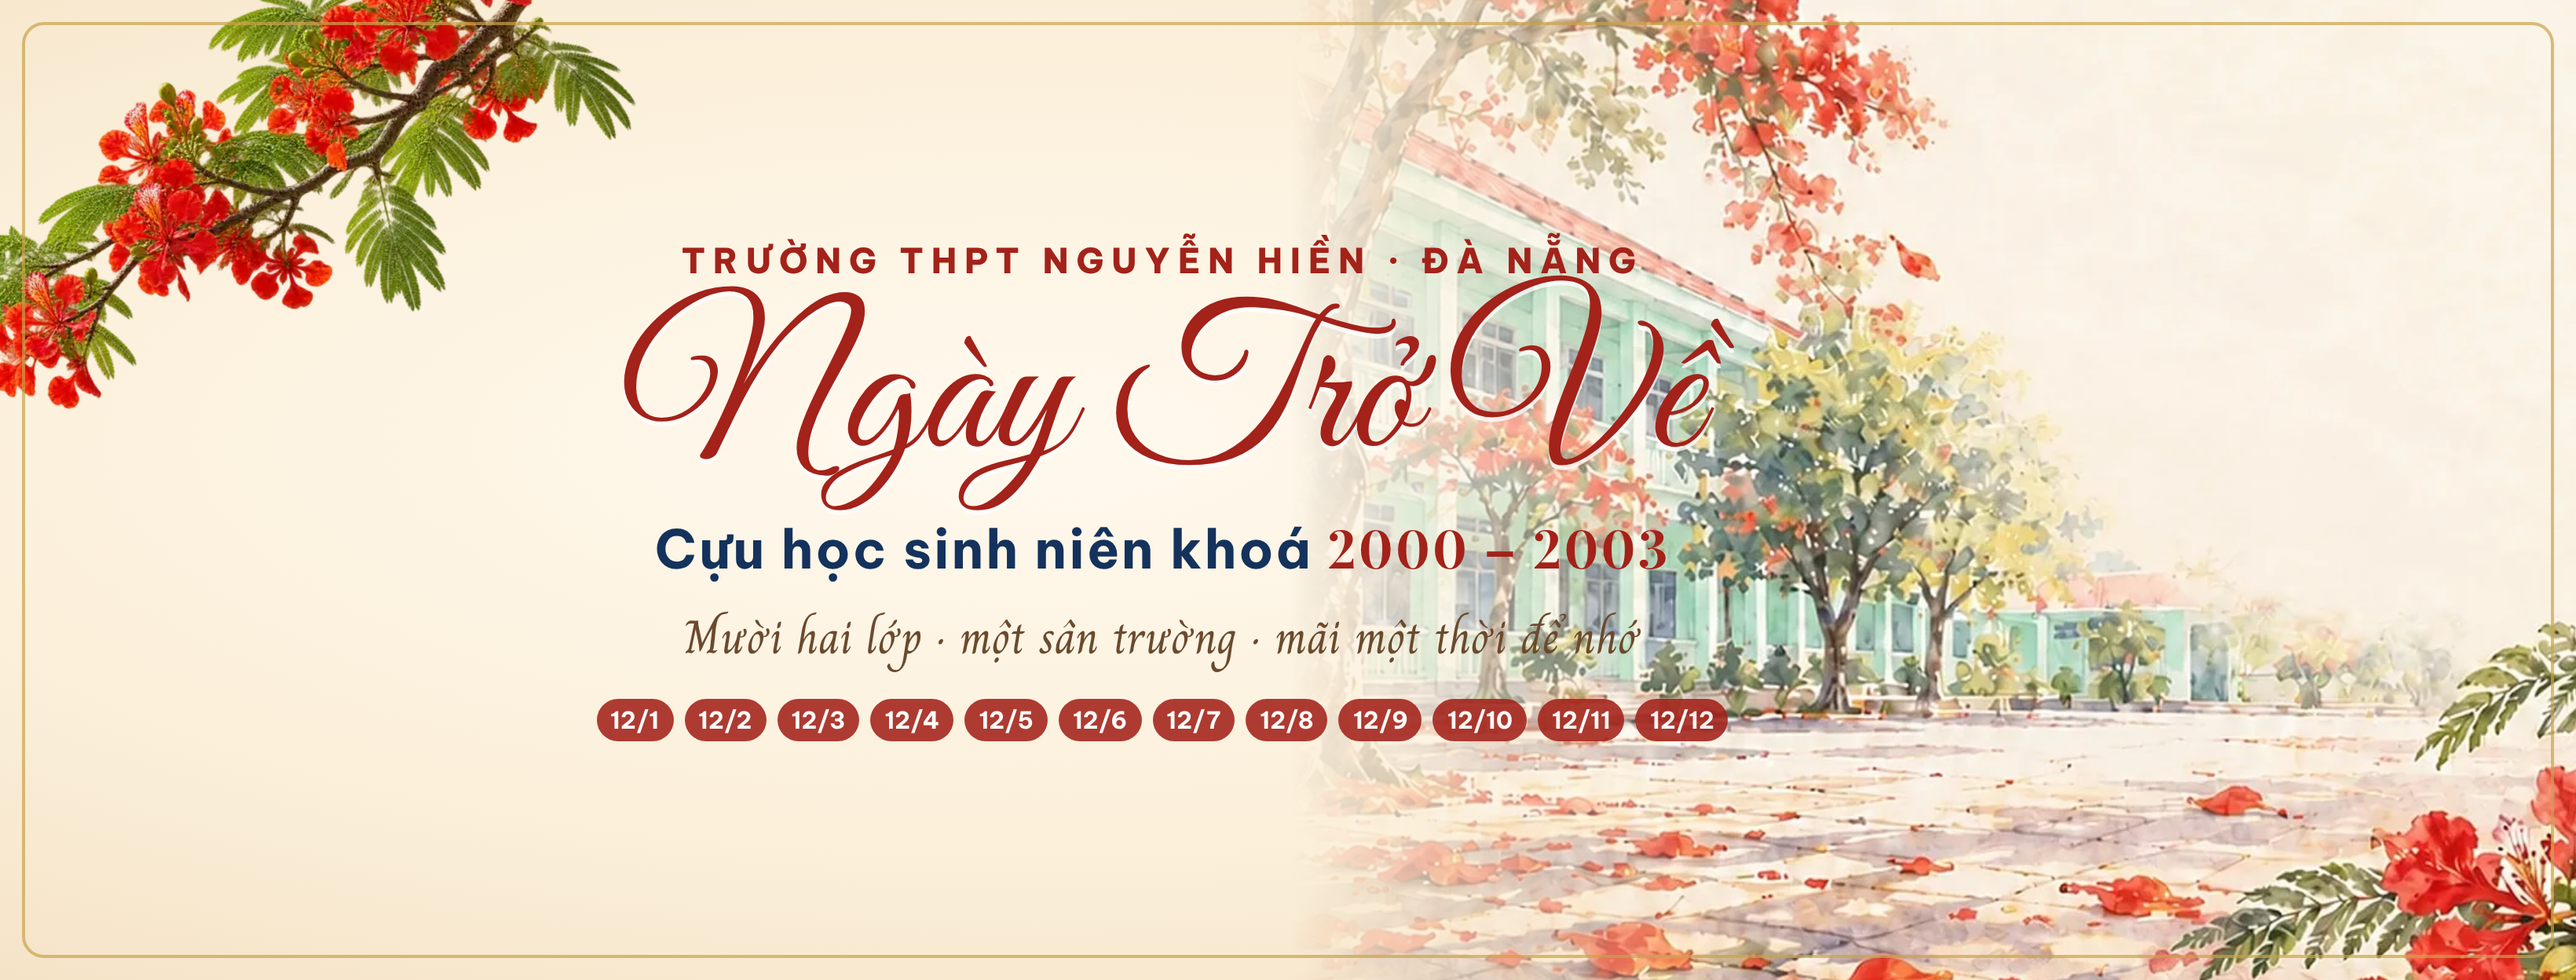
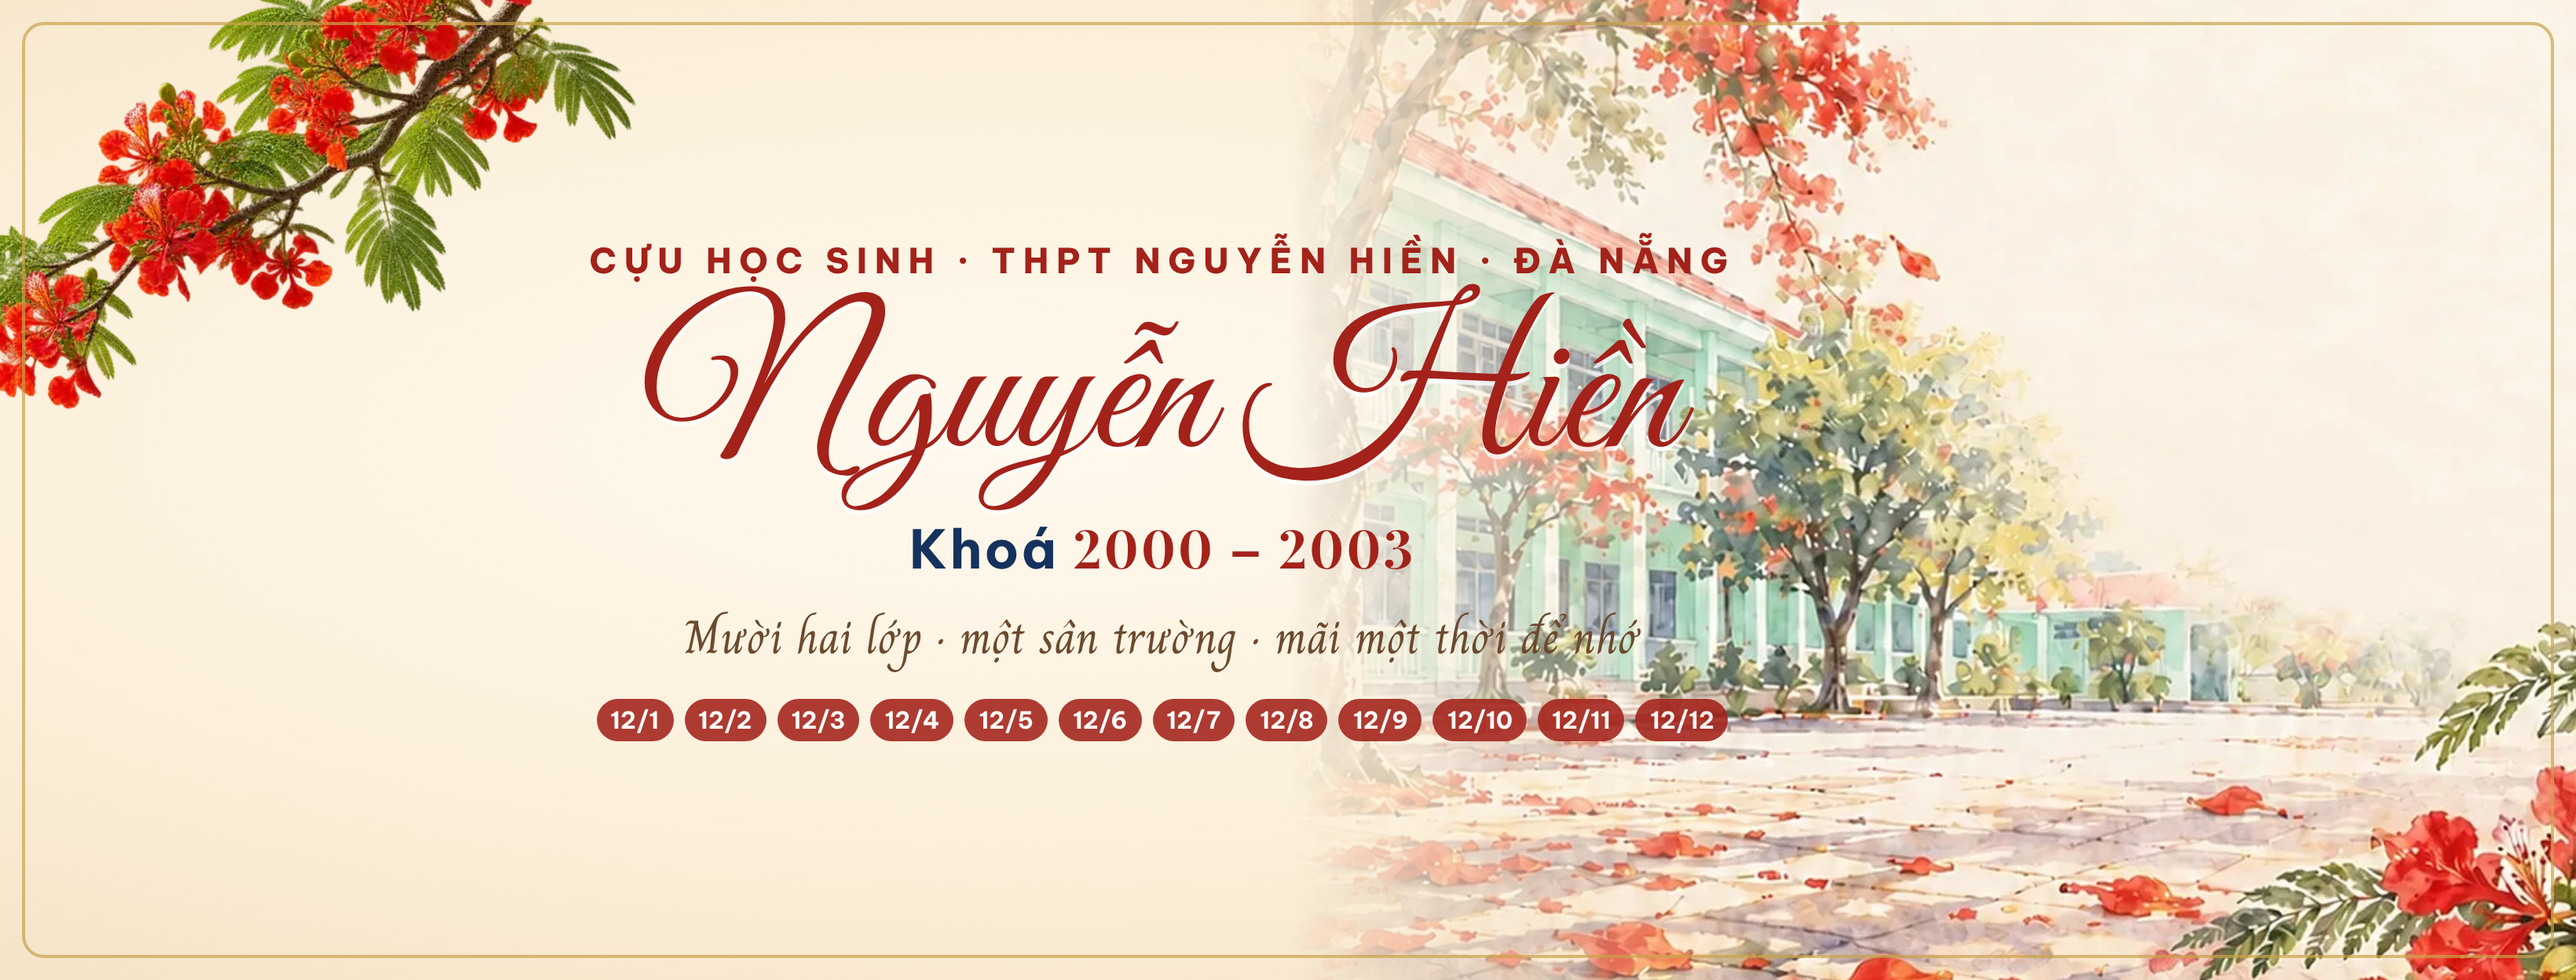
Fanpage: đổi theo tên đã chọn 'Cựu học sinh Nguyễn Hiền Đà Nẵng · Khoá 2000 – 2003' (@cuuhsnguyenhien0003)
Claude-Session: https://claude.ai/code/session_01Y1ZWh7bFy81zQtocY5fDHA

Changed region(s): [[0.2177, 0.25, 0.6841, 0.5938]]

diff --git a/thiet-ke/fanpage/fanpage.html b/thiet-ke/fanpage/fanpage.html
@@ -31,8 +31,8 @@ h1{font:400 128px/1.05 'Great Vibes',cursive;color:#A3221A;margin:8px 0 2px;text
 const m=new URLSearchParams(location.search).get('m')||'bia';document.body.className=m;
 const C='../tho-mot-thoi-de-nho/canh-phuong.webp',L='../../assets/logo-nguyen-hien.png';
 document.body.innerHTML+= m==='bia'?`<div class="tranh"></div><img class="canh c1" src="${C}"><div class="vien"></div>
-<div class="nd"><div class="ey">TRƯỜNG THPT NGUYỄN HIỀN · ĐÀ NẴNG</div><h1>Ngày Trở Về</h1>
-<div class="nk">Cựu học sinh niên khoá <b>2000 – 2003</b></div><div class="cau">Mười hai lớp · một sân trường · mãi một thời để nhớ</div>
+<div class="nd"><div class="ey">CỰU HỌC SINH · THPT NGUYỄN HIỀN · ĐÀ NẴNG</div><h1>Nguyễn Hiền</h1>
+<div class="nk">Khoá <b>2000 – 2003</b></div><div class="cau">Mười hai lớp · một sân trường · mãi một thời để nhớ</div>
 <div class="lop">${Array.from({length:12},(_,i)=>`<i>12/${i+1}</i>`).join('')}</div></div>`
-:`<img class="canh c1" src="${C}"><img class="canh c2" src="${C}"><div class="vong"></div><img class="logo" src="${L}"><div class="ten">NGUYỄN HIỀN</div><div class="so">2000 – 2003</div><div class="ntv">Ngày Trở Về</div>`;
+:`<img class="canh c1" src="${C}"><img class="canh c2" src="${C}"><div class="vong"></div><img class="logo" src="${L}"><div class="ten">NGUYỄN HIỀN</div><div class="so">2000 – 2003</div><div class="ntv">Cựu học sinh</div>`;
 </script></body></html>

diff --git a/thiet-ke/fanpage/huong-dan-fanpage.md b/thiet-ke/fanpage/huong-dan-fanpage.md
@@ -1,11 +1,11 @@
-# Fanpage "Nguyễn Hiền 2000 – 2003 · Ngày Trở Về"
+# Fanpage "Cựu học sinh Nguyễn Hiền Đà Nẵng · Khoá 2000 – 2003"
 
 ## 1. Thông tin tạo trang
 
 | Mục | Điền |
 |---|---|
-| **Tên trang** | Nguyễn Hiền 2000 – 2003 · Ngày Trở Về |
-| **Tên người dùng (@)** | `nguyenhien0003` (dự phòng: `nguyenhien.2000.2003`, `ngaytrove.nh0003`) |
+| **Tên trang** | Cựu học sinh Nguyễn Hiền Đà Nẵng · Khoá 2000 – 2003 |
+| **Tên người dùng (@)** | `cuuhsnguyenhien0003` → facebook.com/cuuhsnguyenhien0003 (nếu đã có người dùng: `cuuhs.nguyenhien0003`, `cuuhsnguyenhien.dn`) |
 | **Hạng mục** | Cộng đồng · Tổ chức cựu học sinh (Alumni) |
 | **Ảnh đại diện** | `anh-dai-dien.png` (1080×1080, Facebook tự cắt tròn) |
 | **Ảnh bìa** | `anh-bia.png` (3280×1248 = tỉ lệ 1640×624; chữ nằm giữa nên điện thoại không bị cắt) |
@@ -41,7 +41,7 @@
 > 👉 Kỷ yếu online của khoá: nguyenhien.philong.cloud
 > 👉 Gửi ảnh cho trang: nhắn tin trực tiếp cho page hoặc admin lớp mình.
 >
-> #NguyenHien0003 #NgayTroVe
+> #CuuHSNguyenHien0003 #NgayTroVe
 
 ## 4. Bài đầu tiên nên đăng (sau Gala)
 
@@ -55,7 +55,7 @@
 > ✍ Viết thêm lưu bút: mục Kỷ yếu → Viết lưu bút
 >
 > Hẹn gặp lại ở mốc 25 năm! 🌸
-> #NguyenHien0003 #NgayTroVe
+> #CuuHSNguyenHien0003 #NgayTroVe
 
 ## 5. Lịch đăng bài 4 tuần đầu (2–3 bài/tuần)
 
